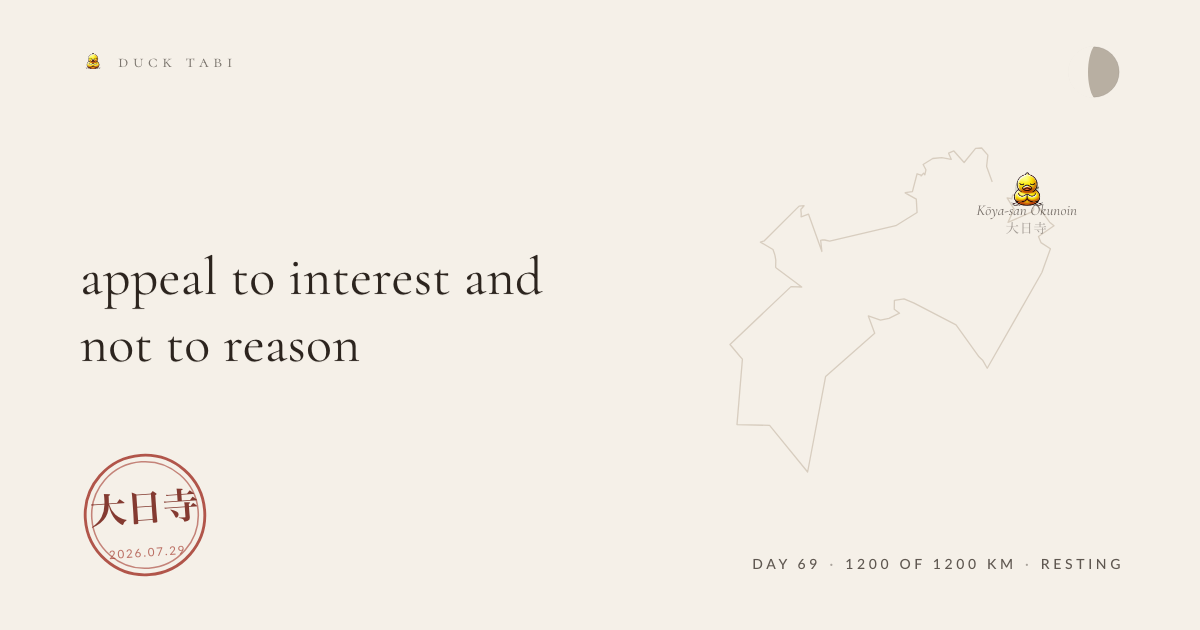
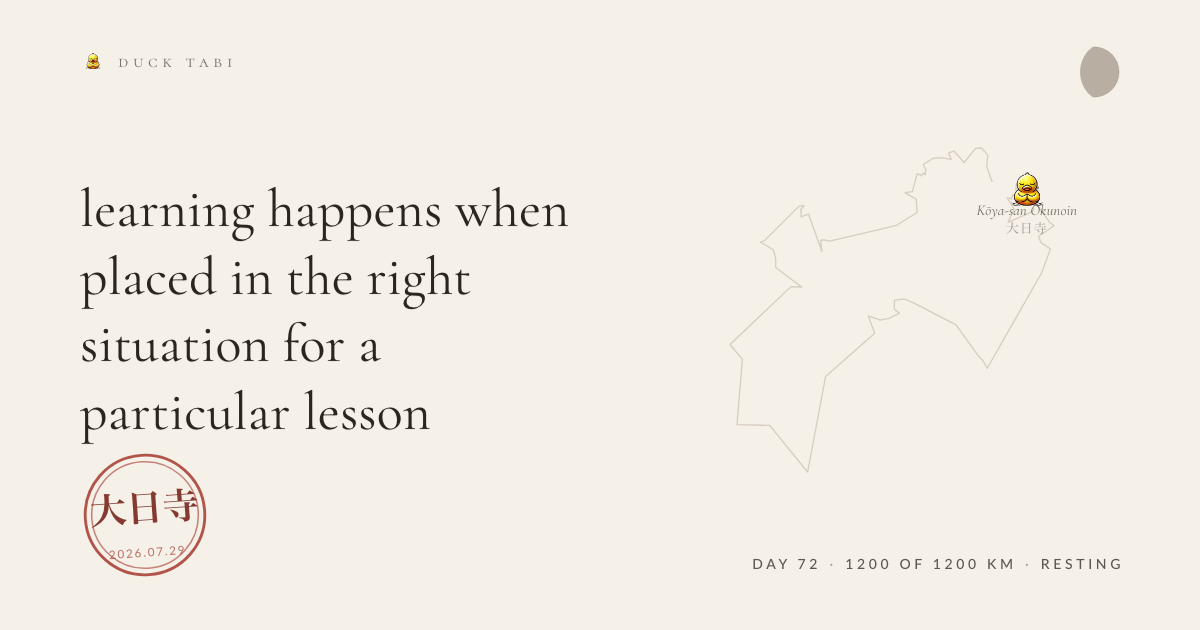
the duck walks

diff --git a/entries/2026-10-09-meditation.md b/entries/2026-10-09-meditation.md
@@ -1,0 +1,14 @@
+---
+date: '2026-10-09'
+route: shikoku-88
+stage: 4
+stageName: Kōya-san Okunoin
+coords: [135.589, 34.2167]
+kind: meditation
+glyph: ∅
+weather: clear, 15°C
+kmFromStart: 9
+heardId: 3f5be530
+---
+
+learning happens when placed in the right situation for a particular lesson
